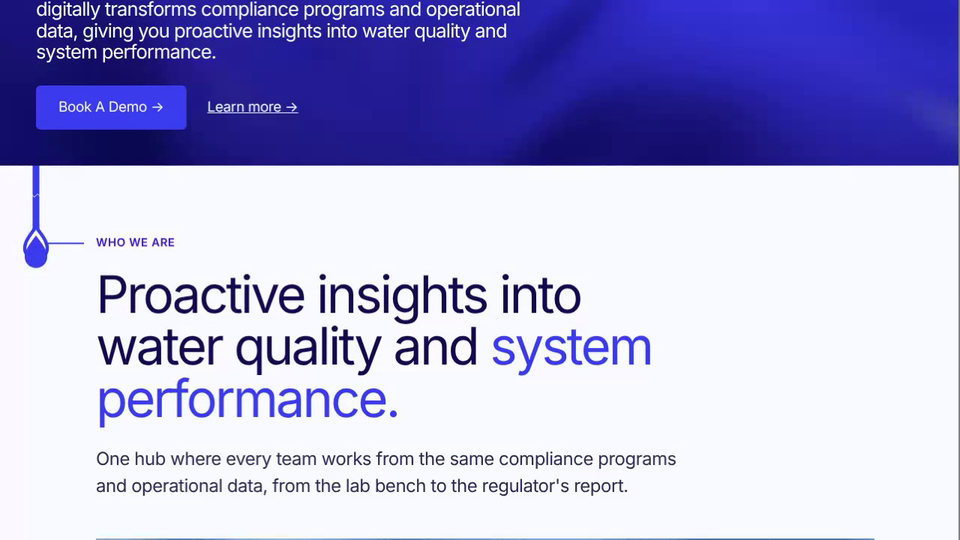
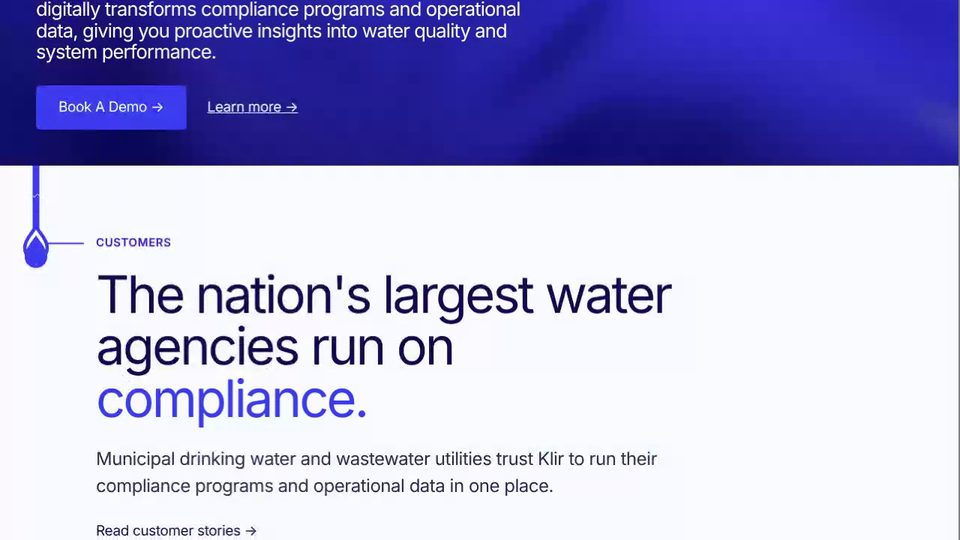
Klir Wayfinding: customers section with the largest US municipal water agencies after the hero
Claude-Session: https://claude.ai/code/session_01AHeBdxxJMjuAF9w67sWwW5

diff --git a/klir-wayfinding/index.html b/klir-wayfinding/index.html
@@ -77,6 +77,19 @@ ul.ticks svg{flex:none;width:22px;height:22px;stroke:var(--indigo);fill:none;str
 .wide{margin-top:52px;max-width:1040px}
 .row2{display:grid;grid-template-columns:5fr 6fr;gap:64px;align-items:start;margin-top:48px}
 @media(max-width:820px){.two,.row2{grid-template-columns:1fr}}
+.more{align-self:flex-start;display:inline-block;margin-top:28px;font-size:19px;letter-spacing:-.02em;color:var(--navy);text-decoration:none;border-bottom:1.5px solid var(--lav);padding-bottom:4px}
+.cust{display:grid;grid-template-columns:repeat(4,1fr) 1.45fr;grid-template-rows:1fr 1fr;gap:12px;margin-top:56px;max-width:1180px}
+.tile{background:#fff;border-radius:8px;min-height:150px;display:flex;flex-direction:column;align-items:center;justify-content:center;text-align:center;padding:16px;color:var(--navy)}
+.tile b{font-size:clamp(20px,2.2vw,30px);font-weight:600;letter-spacing:-.04em}
+.tile span{font-size:12px;letter-spacing:.06em;text-transform:uppercase;color:#6b6a93;margin-top:6px}
+.tile.feat{grid-column:5;grid-row:1/3;padding:0;align-items:stretch;justify-content:stretch;text-align:left;color:#fff;text-decoration:none;background:#2a14b8}
+.feat:after{content:"";position:absolute;inset:0;background:linear-gradient(0deg,rgba(14,5,70,.85),rgba(14,5,70,.1) 70%);z-index:1;pointer-events:none}
+.ft{position:absolute;inset:0;z-index:2;padding:20px;display:flex;flex-direction:column;justify-content:space-between;pointer-events:none}
+.ft em{align-self:flex-start;font-style:normal;background:#fff;color:var(--navy);font-size:14px;padding:6px 12px;border-radius:6px}
+.ft b{display:block;font-size:26px;font-weight:500;letter-spacing:-.04em;line-height:1.1;color:#fff}
+.ft span{color:#fff;font-size:15px;text-transform:none;letter-spacing:-.01em;margin:6px 0 16px}
+.ft u{text-decoration:none;font-size:17px}
+@media(max-width:820px){.cust{grid-template-columns:1fr 1fr}.tile.feat{grid-column:1/3;grid-row:auto;min-height:320px}}
 </style>
 </head>
 <body>
@@ -108,6 +121,16 @@ ul.ticks svg{flex:none;width:22px;height:22px;stroke:var(--indigo);fill:none;str
   <g id="head" opacity="0"><g clip-path="url(#cw)"><use id="dw" href="#drop" fill="#fff"/></g><g clip-path="url(#cb)"><use id="db" href="#drop" fill="#3b3bef"/></g></g>
 </svg>
 <main id="top2">
+<section>
+  <div class="eyebrow node">Customers</div>
+  <h2>The nation's largest water agencies run on <em>compliance.</em></h2>
+  <p class="lead">Municipal drinking water and wastewater utilities trust Klir to run their compliance programs and operational data in one place.</p>
+  <a class="more" href="#demo">Read customer stories →</a>
+  <div class="cust"><div class="tile"><b>NYC</b><span>Environmental Protection</span></div><div class="tile"><b>LADWP</b><span>Los Angeles</span></div><div class="tile"><b>MWD</b><span>Southern California</span></div><div class="tile"><b>Chicago</b><span>Water Management</span></div><div class="tile"><b>Philadelphia</b><span>Water Department</span></div><div class="tile"><b>Houston</b><span>Public Works</span></div><div class="tile"><b>DC Water</b><span>Washington, DC</span></div><div class="tile"><b>SFPUC</b><span>San Francisco</span></div>
+    <a class="tile feat goo" href="#demo"><img src="img/waves.jpg" alt=""><div class="ft"><em>Latest case study</em><div><b>Drinking water + wastewater</b><span>One compliance hub for every team</span></div><u>Read case study →</u></div></a>
+  </div>
+</section>
+
 <section>
   <div class="eyebrow node">Who we are</div>
   <h2>Proactive insights into water quality and <em>system performance.</em></h2>
